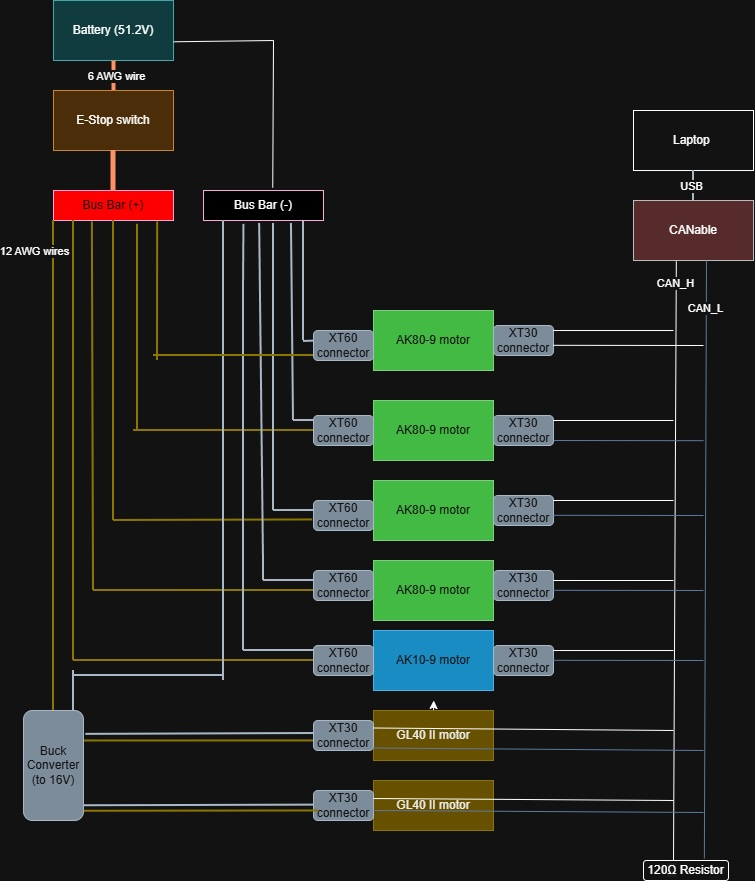
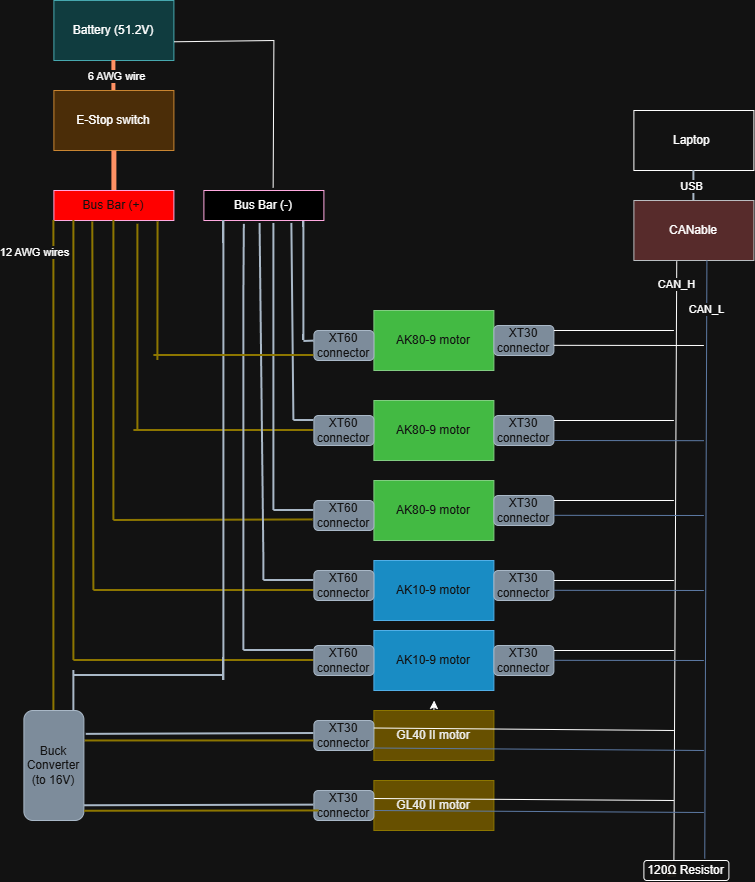
changing motor quantities

diff --git a/wato-humanoid-wiki/docs/electrical/index.md b/wato-humanoid-wiki/docs/electrical/index.md
@@ -39,8 +39,8 @@ Five motors run directly from the 51.2 V bus bars via **XT60** connectors:
 
 | Motor | Quantity | Voltage | Connector |
 | --- | --- | --- | --- |
-| AK80-9 | 4 | 51.2 V | XT60 |
-| AK10-9 | 1 | 51.2 V | XT60 |
+| AK80-9 | 3 | 51.2 V | XT60 |
+| AK10-9 | 2 | 51.2 V | XT60 |
 
 Two **GL40 II** motors operate at a lower voltage. A **buck converter** steps the 51.2 V bus down to **16 V**, which is delivered to both motors via **XT30** connectors.
 
